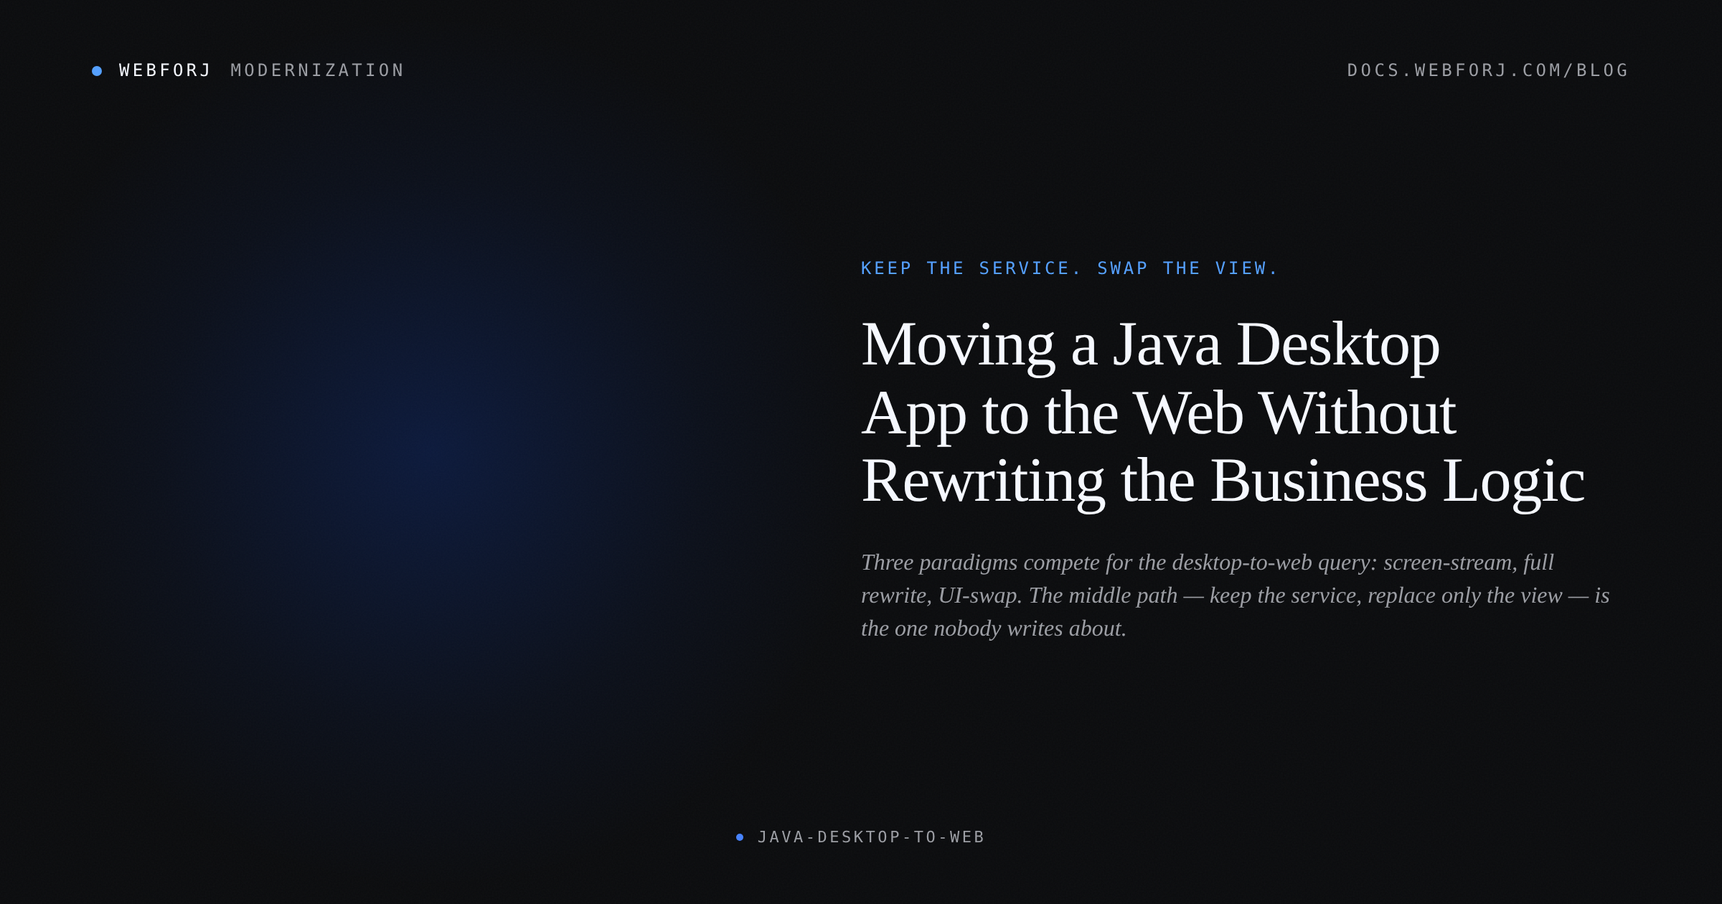
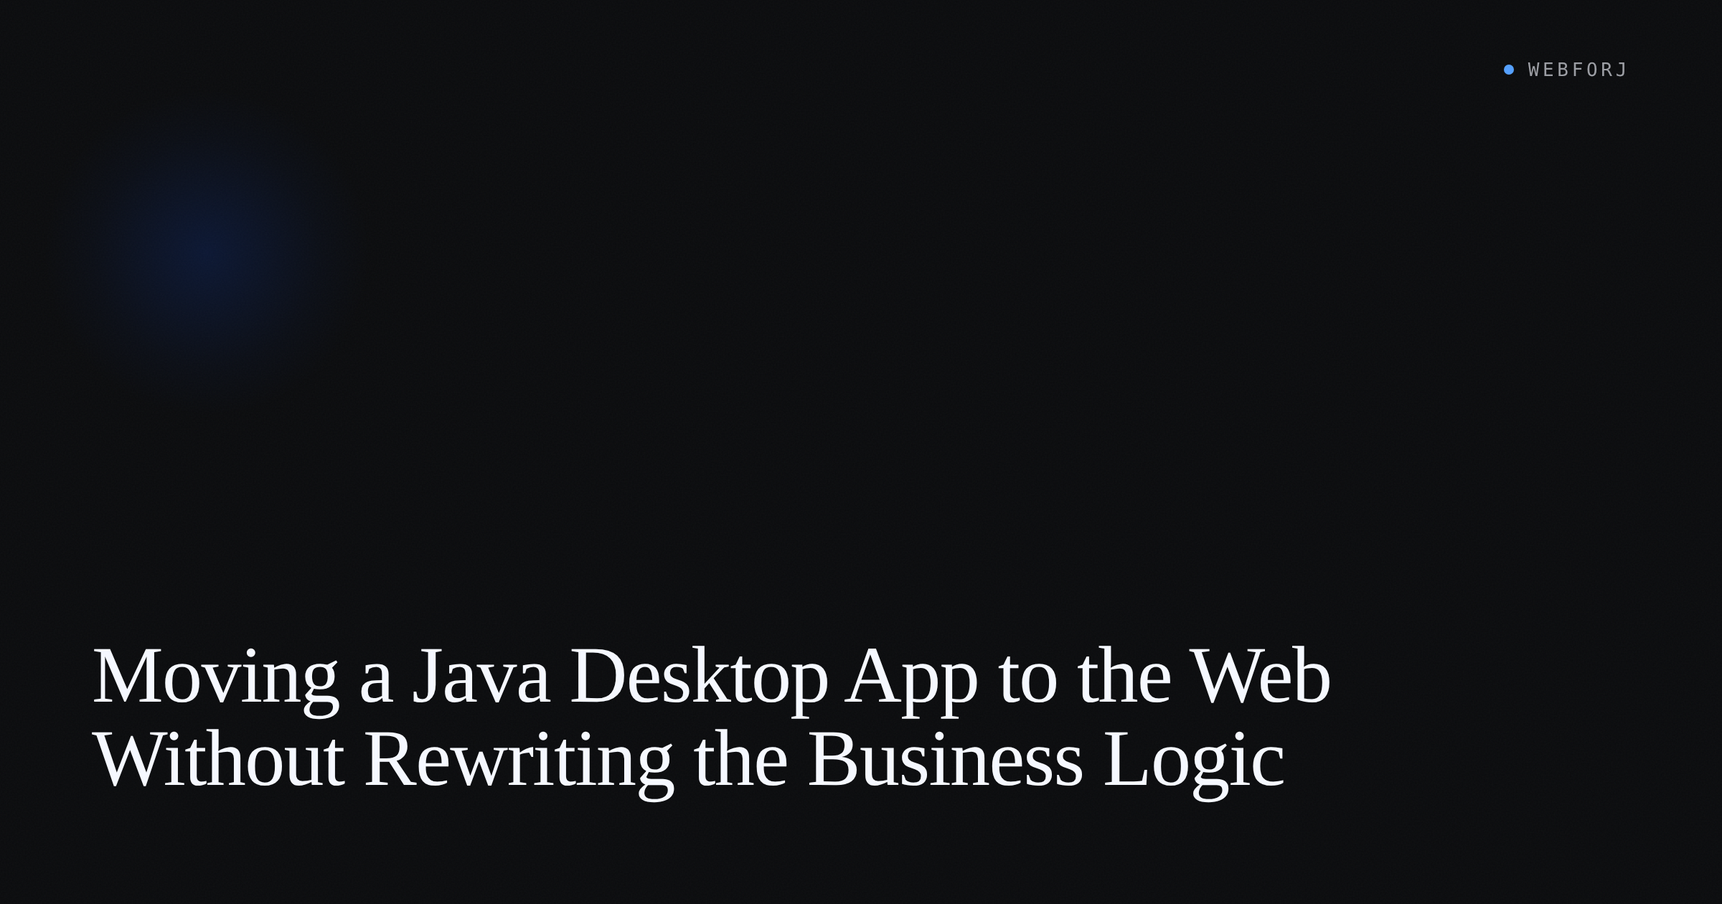
Add SEO post: Moving a Java Desktop App to the Web Without Rewriting the Business Logic

diff --git a/docs/blog/SEO-posts/2026-08-19-java-desktop-to-web/index.md b/docs/blog/SEO-posts/2026-08-19-java-desktop-to-web/index.md
@@ -1,10 +1,10 @@
 ---
 title: "Moving a Java Desktop App to the Web Without Rewriting the Business Logic"
-description: "Three paradigms compete for the desktop-to-web query: screen-stream, full rewrite, UI-swap. The middle path — keep the service, replace only the view — is the one nobody writes about."
+description: "How to move a Java desktop app to the web without rewriting the business logic. A comparison of screen-streaming, full rewrite, and UI-swap — and how to pick."
 slug: java-desktop-to-web
 date: 2026-08-19
 authors: webforJ
-tags: [modernization, tutorial]
+tags: [modernization, web development, front end]
 image: ./cover.png
 hide_table_of_contents: false
 
@@ -13,68 +13,71 @@ hide_table_of_contents: false
 
 ![cover](./cover.png)
 
-The Swing app works fine. It has for fifteen years. The problem is the laptop it runs on, the VPN the field team needs to launch it, the help desk tickets about Java versions, and the sales manager who keeps asking why the competitors have something that works in a browser. Nobody is saying the business logic is wrong. The order service is solid. The validation rules are exactly right. The question is whether "moving it to the web" means blowing all of that up.
+The Swing app has been running in production for a decade. It knows the domain well — the `OrderService`, the pricing rules, the validation logic accumulated through years of edge cases. The problem is delivery: users need it in a browser. IT is asking for a URL. Everyone wants to keep the codebase they understand.
 
-The SERP gives you two answers: screen-stream your existing app with Webswing or AjaxSwing, or hire a consultancy to rewrite everything as REST endpoints with a React frontend. Both are legitimate in some situations. But neither is the answer for the team that has a service layer and just needs a different view on top of it. That answer — keep the services, replace only the UI — is the one nobody writes about.
+The SERP for "java desktop to web" gives you two answers. Screen-stream the Swing UI through something like Webswing — no rewrite, the existing app delivered in a browser tab. Or throw it out and build a React frontend with a REST API behind it. Both approaches are legitimate. Neither is the middle path most teams should consider first.
 
-That is what this post is about.
+That middle path is a UI-swap: keep the service layer, replace only the view. The `OrderService` stays. The domain objects stay. The business rules stay. Only the code that draws the screen changes. This post covers what that looks like, where it holds up, and where it breaks down.
 
 <!-- truncate -->
 
-## Three paradigms competing for the same query
+## Three approaches competing for the same query
 
-When someone searches "migrate Java desktop app to web," they are usually trying to solve one of three different problems, and the tools that come up are not interchangeable.
+**Screen-streaming** renders the Swing UI server-side and sends the visual output to the browser. Webswing is the main implementation of this pattern. The application has no idea it is in a browser — it still paints `JPanel`s and fires `ActionListener`s. The browser receives the rendered result. Advantages: no application changes, immediate web delivery. Trade-off: you are shipping a desktop UX over a wire, because that is what it is.
 
-**Screen-streaming** (Webswing, AjaxSwing, Oracle Remote Desktop) takes your existing Swing or JavaFX app, runs it server-side, and renders it to a browser over a pixel stream or canvas protocol. The app does not change at all. The user gets a browser window that looks like the desktop app — same layout, same widgets, same behavior. The advantage is zero code changes and a production-ready deployment in days. The trade-off is that you are still shipping a desktop app; you have just moved where it runs. You get browser delivery, not a web experience.
+**Full rewrite** builds a new frontend — usually React or Angular — and exposes the existing backend as a JSON API. This is a complete migration to a web paradigm. The trade-off is cost: it is slow, expensive, and burns the institutional knowledge embedded in the service layer. The team that spent years encoding business rules into `OrderService` now has to build a contract over them instead of calling them directly.
 
-**Full rewrite** is what consultancies propose when they want to start fresh. Pull the UI out entirely, expose the domain layer as a REST API, build a React or Angular frontend on top of it. When it works, you get a modern web app. The cost is high, the risk is high, and the institutional knowledge baked into years of UI code often does not survive the translation. Teams underestimate how much business logic lives in ActionListeners and how long "just the API layer" takes.
+**UI-swap** replaces only the view layer. The service classes stay untouched. The new UI calls them directly, as the Swing UI did. No JSON wire, no separate frontend deployment, no REST contract between two processes. One Maven project, one JVM, the same Spring context — if Spring is already in the picture.
 
-**UI-swap** is the middle path: keep the service layer as Java, keep the domain objects and repositories, but replace only the view layer. Instead of a Swing `JFrame` calling `orderService.submit(order)`, you have a webforJ view calling the same `orderService.submit(order)`. The wire between UI and service does not move. Only the presentation layer changes.
-
-Most searches for "Java desktop to web" are really asking about this third option. The first two exist on the SERP. This one mostly does not.
+Most search results argue between the first two. The third is the overlooked one.
 
 ## Where the boundary lives
 
-The argument against UI-swap is usually "our Swing code doesn't have a service layer." That is sometimes true, but less often than teams expect. In any Swing app that has been in production for more than a few years, there is almost always an implicit boundary somewhere — a class that does the database work, a service that handles the business rules, a DAO that insulates the UI from the persistence layer. The ActionListeners call something. That something is the boundary.
+A Swing application that has been in production for a decade almost always has a separation between UI and service, even when nobody designed for one. The `OrderService` has a `submit(Order order)` method. The `JPanel` builds an `Order` from its form fields and calls it. The database access is downstream of the service. Nothing in `javax.swing` appears in the service layer.
 
-Even apps with business logic scattered across ActionListeners have a recoverable structure: the queries hit a database, the mutations go through something that validates them. The work of UI-swap is not inventing a service layer from scratch; it is finding the seam that is already there and building the new view on the other side of it.
-
-Consider a simple order-management piece. The service contract looks like this in both the old and new worlds:
+That separation is the seam a UI-swap fits through. A typical service boundary looks like this:
 
 ```java
 public interface OrderService {
-    List<Order> getOpenOrders(String customerId);
-    void submit(Order order);
-    BigDecimal getTotal(Order order);
+    List<Order> findByCustomer(String customerName);
+    Order submit(Order order);
+    void cancel(Long orderId);
 }
 ```
 
-No Swing imports. No web imports. Plain Java with a clear contract. The `OrderService` does not know whether its caller holds a `JFrame` or a webforJ view. That is the seam.
+No `javax.swing` import. No HTML. No HTTP. The service does not know what the UI is — which means the UI can change without touching the service.
 
-## What the shape looks like
+## What the swap looks like
 
-Here is a representative Swing view fragment — a small order panel that calls into that service:
+The Swing view calling this service might look like this:
 
 ```java
 public class OrderPanel extends JPanel {
     private final OrderService orderService;
     private final JTextField customerField = new JTextField(20);
+    private final JTable orderTable = new JTable();
+    private final JButton submitButton = new JButton("Submit");
 
     public OrderPanel(OrderService orderService) {
         this.orderService = orderService;
-        JButton submitButton = new JButton("Submit");
-        submitButton.addActionListener(e -> {
-            String customerId = customerField.getText();
-            orderService.submit(new Order(customerId));
-        });
         setLayout(new BorderLayout());
-        add(customerField, BorderLayout.NORTH);
-        add(submitButton, BorderLayout.SOUTH);
+        JPanel inputRow = new JPanel();
+        inputRow.add(new JLabel("Customer:"));
+        inputRow.add(customerField);
+        inputRow.add(submitButton);
+        add(inputRow, BorderLayout.NORTH);
+        add(new JScrollPane(orderTable), BorderLayout.CENTER);
+        submitButton.addActionListener(e -> submitOrder());
+    }
+
+    private void submitOrder() {
+        Order order = new Order(customerField.getText());
+        orderService.submit(order);
     }
 }
 ```
 
-The equivalent webforJ view calls the same service. The structure follows the `Composite<FlexLayout>` pattern from the [Composing Components](/docs/building-ui/composing-components) docs, with the `ActionListener` replaced by `onClick` and the GridBagLayout dance replaced by `getBoundComponent().setDirection(...).add(...)`:
+The equivalent webforJ view calls the same `orderService.submit(...)`. The component names are different; the structure corresponds:
 
 ```java
 public class OrderView extends Composite<FlexLayout> {
@@ -90,18 +93,18 @@ public class OrderView extends Composite<FlexLayout> {
     }
 
     private void initializeComponents() {
-        customerField = new TextField("Customer ID");
-        submitButton = new Button("Submit");
+        customerField = new TextField("Customer name...");
+        submitButton = new Button("Submit order");
         orderList = new Div();
     }
 
     private void setupLayout() {
-        FlexLayout header = new FlexLayout(customerField, submitButton);
-        header.setAlignment(FlexAlignment.CENTER);
-        header.setSpacing("8px");
+        FlexLayout searchRow = new FlexLayout(customerField, submitButton);
+        searchRow.setAlignment(FlexAlignment.CENTER);
+        searchRow.setSpacing("8px");
         getBoundComponent()
             .setDirection(FlexDirection.COLUMN)
-            .add(header, orderList);
+            .add(searchRow, orderList);
     }
 
     private void configureEvents() {
@@ -109,71 +112,69 @@ public class OrderView extends Composite<FlexLayout> {
     }
 
     private void submitOrder() {
-        // calls orderService.submit(new Order(customerField.getValue()))
+        // Submit order via orderService
     }
 }
 ```
 
-`JTextField` → `TextField`. `JTable` → [`Table<Order>`](/docs/components/table/overview) (not shown here — the Table component covers the column and item binding API). `addActionListener` → `onClick`. The `orderService.submit(...)` call is the same; only the view layer changed.
+`JTextField` → `TextField`. `JButton` → `Button`. `addActionListener` → `onClick`. `BorderLayout` → `FlexLayout`. The results container above is a `Div` for this illustrative example — the [Table component](/docs/components/table/overview) covers the data-grid case, including the `JTable` equivalent, with sorting and filtering built in.
 
-Adding webforJ to the existing Maven project is one dependency:
+**Form fields and data binding.** The `TextField` in the example above can bind directly to a domain object using webforJ's [data binding layer](/docs/data-binding/overview). Where a Swing form would have manual `getText()` calls to pull field values into an `Order`, the webforJ binding layer maps the form fields to the entity automatically. The service call at the end is the same; the field-to-object wiring is less hand-written.
+
+To add webforJ to an existing Maven project:
 
 ```xml
 <dependency>
-  <groupId>com.webforj</groupId>
-  <artifactId>webforj</artifactId>
-  <version>26.01</version>
+    <groupId>com.webforj</groupId>
+    <artifactId>webforj</artifactId>
+    <version>26.01</version>
 </dependency>
 ```
 
-Not a new project, not a new build system, not a renegotiated Spring context. The existing Maven build gets a new dependency. The existing service layer gets a new caller.
+One dependency added to the existing `pom.xml`. The service and repository code already on the classpath does not move.
 
-## What the peer-reviewed research says
+## What the research says
 
-The question of whether incremental UI-layer modernization works in practice has been studied. A 2024 paper in the CLEI Electronic Journal ([DOI 10.19153/cleiej.27.1.5](https://www.clei.org/cleiej/index.php/cleiej/article/view/647)) examined incremental migration of legacy Java desktop applications and found that phased UI-layer replacement — preserving the service layer and migrating views one at a time — significantly reduced integration risk compared to big-bang rewrites. The study's conclusion is unsurprising to anyone who has watched a big-bang rewrite miss its deadline: the risk concentrates at integration time, and incremental approaches distribute that risk across the delivery schedule.
+The incremental UI-layer approach has backing in the peer-reviewed literature beyond vendor white papers. A study in the CLEI Electronic Journal (DOI [10.19153/cleiej.27.1.5](https://www.clei.org/cleiej/index.php/cleiej/article/view/647)) examined migration strategies for Java desktop applications with a focus on incremental UI-layer approaches. The argument for bounded scope — the migration is limited to the view layer, the domain logic does not move, regression risk stays contained — holds up in the research as well as in practice.
 
-That is not an argument to never do a full rewrite. It is an argument that the incremental path has research behind it, not just intuition.
+## View by view, not big bang
 
-## View-by-view, not big bang
+Nothing about a UI-swap requires migrating the whole application at once. A team can start with one view — one `JPanel`, one `Composite` — validate it against the existing service, and continue. The first screen ships before the second view is started.
 
-The practical version of UI-swap does not require porting every view before shipping anything. You start with one screen — the highest-value one, the one users complain about most, the one with the simplest service interface. You get that screen into a browser and running against the same service as the Swing panel. Users verify that it behaves correctly. You release it.
+This matters for regression risk. Service tests that already pass continue to pass against the unchanged service. Only the new view needs new UI tests. The release cadence a Swing team is used to can survive the migration.
 
-The next sprint, you migrate another screen. The sprint after that, another. The Swing app is still running during this period, and the screens that have not been migrated yet still work. There is no moment when the entire system is broken waiting for the migration to finish.
-
-This is what "view-by-view" buys in practice: regression risk is bounded per sprint, rollback scope is one screen rather than an entire rewrite, and the team is building confidence in the new view layer incrementally rather than betting everything on a single integration week.
+Screen-streaming cannot be done this way. You either stream the whole Swing app or you do not. A full rewrite cannot either — the REST layer, the new frontend, and the authentication wiring all need to land together before the first screen is usable. A UI-swap is the only pattern of the three that delivers a working application after the first sprint.
 
 ## Where the abstraction leaks
 
-The correspondence between Swing and webforJ is not perfect. Some Swing patterns translate awkwardly.
+Not every Swing pattern maps cleanly to a webforJ equivalent.
 
-**Blocking modal dialogs.** Swing's `JOptionPane.showConfirmDialog(...)` and similar blocking calls work because the Swing event thread can block while waiting for user input. webforJ's async event model does not support blocking at the UI layer — dialogs are non-blocking and you provide a callback. Apps that use blocking modals extensively need to rethink those flows, not just find-and-replace them.
+**Blocking modal dialogs.** `JOptionPane.showConfirmDialog(...)` blocks the current thread until the user responds. The webforJ event model does not block; event handlers are callbacks. Views that depend on blocking dialogs for flow control — "ask the user to confirm, then do X based on the answer" — need to be restructured as callback chains, not simply renamed. The behavior can be replicated, but the structure of the code changes.
 
-**`SwingWorker` background patterns.** Swing's `SwingWorker` handles background computation and UI updates across thread boundaries. webforJ handles this differently — background work runs in a server thread and pushes updates to the client over the persistent connection. The pattern exists; the API is different and the mental model requires adjustment.
+**`SwingWorker` background threads.** webforJ manages the UI-server sync without requiring the developer to explicitly manage a UI thread. Swing apps that use `SwingWorker` to offload a long-running query and then `publish()` intermediate results back to the UI will need to rethink the threading model. The service call itself stays the same; the scaffolding around it is different.
 
-**Native file pickers and OS integrations.** If the app opens the native file-system dialog or integrates with OS-level clipboard or drag-and-drop APIs, those integrations need to be re-examined. The browser provides equivalent capabilities via its own APIs, but the mapping is not automatic.
+**Native file pickers.** webforJ ships its own file upload component for the browser context. Apps that rely on direct filesystem access via `JFileChooser` need a rethink of what "open a file" means when the user is remote. The user's local filesystem is not accessible server-side; upload flows replace open-file flows.
 
-**Tight JNI integrations.** If the app calls native libraries through JNI for something core to its function, those calls can usually still run server-side — webforJ views run on the JVM — but anything that expects a local display or a local file path needs to be rethought.
+**JNI and native libraries.** If the Swing app calls into native code via JNI, that code still runs server-side after the migration — nothing about the JVM process changes in that regard. What breaks is any assumption that the native code has access to the user's local machine, because the server is not the user's machine. Local printer drivers, hardware dongles, and device-specific integrations fall into this category.
 
-These are concrete gaps. They are also well-understood failure modes, which means they are auditable before you commit. A quick survey of the codebase for `JOptionPane.showConfirmDialog`, `SwingWorker`, and native library calls tells you whether the view layer will translate cleanly or whether specific screens need extra design work.
+These are material constraints. They affect a fraction of a typical Swing app's surface area — rarely the majority of the codebase. They do not invalidate the pattern; they mark the screens that require more thought than a rename.
 
-## When to reach for the other approaches
+## When the other approaches make more sense
 
-UI-swap is not the right answer in every situation.
+Screen-streaming fits better when the app must reach the web with no application changes at all — a hard compliance deadline, a codebase too entangled to safely separate UI from service, or a team with no capacity for view-layer work in the near term. It is also the right call when the desktop UX is a deliberate product feature rather than a legacy constraint, or when the app needs to run on air-gapped machines where browser-to-server connectivity is not guaranteed but local Swing rendering still is.
 
-If the app is small, greenfield-ish, or the service layer does not exist, a full rewrite may be cheaper than carving out a seam that was never designed to be carved. The rule of thumb: if the migration conversation starts with "we would need to refactor the domain model first," a full rewrite deserves serious consideration.
-
-If the app must run on air-gapped machines, has regulatory requirements that preclude web delivery, or must remain locally installed — screen-streaming may be the right shape. Webswing puts a working browser experience in front of users with zero code changes, and for some organizations that is the right trade.
+A full rewrite is worth the investment when the application is small enough that building a REST layer is fast, when the team wants to move to a different technology stack, or when the Swing UI and the business logic have grown so intertwined that separating them would amount to a rewrite of both layers anyway. That last case is also the case where the UI-swap pattern breaks down — which is the next section.
 
 ## Where this pattern breaks down
 
-The UI-swap pattern depends on one thing: a service layer that the UI is calling, rather than a UI that is the service layer. Apps where most of the business logic lives in `ActionListener` bodies, where the Swing model objects are also the persistence objects, where there is no meaningful boundary between what the UI sees and what the database stores — those apps do not have a seam to build on. You can still migrate them, but you are doing a refactor first, not a UI swap.
+The UI-swap pattern assumes there is a service layer to call. Some Swing apps do not have one. Business logic in `ActionListener` bodies, database queries in `JPanel` methods, `ResultSet` processing directly in the view — when the UI code is also the service code, there is no seam to fit through, and a UI-swap is effectively a rewrite of both layers at once.
 
-It is worth being clear-eyed about this before starting. The seam audit — a few hours reading the codebase for what the listeners call and where those calls go — tells you which category you are in.
+This is worth checking before starting. If a `JPanel` contains SQL strings, the migration scope is not the panel — it is the service that needs to be extracted first, and that is a different project.
 
-## The decision
+## Closing
 
-Most Java desktop apps that are still earning their keep in production have a service layer. The boundary is there. The question is whether the team knows that the UI-swap path exists before they sign up for a two-year full rewrite.
+Three paradigms answer the same query. Screen-stream, full rewrite, UI-swap. The third gets the least attention and is often the one most teams should look at first.
 
-If the services are solid and the view layer is the problem, the migration scope is a lot smaller than the SERP implies. One dependency, a new caller for each screen, the same service contract the desktop app already uses.
+If the application has a service layer — and a decade-old production Swing app almost certainly does — the seam is already there. The view is the part that changes. The business logic that took years to encode does not have to move.
 
-The [getting started guide](/docs/introduction/getting-started) has the first-app walkthrough for the webforJ side, and the [Table component](/docs/components/table/overview) and [data binding overview](/docs/data-binding/overview) cover the two pieces of the view layer that tend to come up most often when porting production Swing apps. The [Spring Boot integration guide](/docs/integrations/spring/spring-boot) is the relevant next step for teams whose service layer is already Spring-managed.
+The webforJ [getting started guide](/docs/introduction/getting-started) covers bootstrapping the new view layer, and [composing components](/docs/building-ui/composing-components) covers the `Composite` pattern in depth. For teams wiring the new view into Spring Boot, the [Spring integration guide](/docs/integrations/spring/spring-boot) covers the setup. webforJ traces its lineage through decades of Java UI modernization work, and the component model reflects that history.
